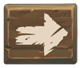
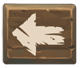
game back buttons

diff --git a/TOB/js/preload.js b/TOB/js/preload.js
@@ -280,6 +280,25 @@ BasicGame.Preload.prototype = {
                 }, 150);
 
             });
+
+            EZGUI.components.backbutton1.on('mousedown', function (event, me) {
+                //console.log('mousedown ', me);
+                var ow = me.width;
+                var oh = me.height;
+                me.animateSizeTo(ow * 1.1, oh * 1.1, 100, EZGUI.Easing.Back.Out, function () {
+                    me.animateSizeTo(ow, oh, 100);
+                });
+            });
+
+            EZGUI.components.backbutton1.on('click', function (event, me) {
+
+                //wait for animation to finish
+                setTimeout(function () {
+                    BasicGame.ui_level_screen.visible = false;
+                    this.game.state.start("GameTitle");
+                }, 100);
+
+            });
         }
 
         BasicGame.reloadStageScreenUI = function () {
@@ -289,11 +308,16 @@ BasicGame.Preload.prototype = {
             levelSelectScreenJSON.width = BasicGame.globalGameWidth;
             levelSelectScreenJSON.height = BasicGame.globalGameHeight;
             levelSelectScreenJSON.children[0].width = BasicGame.globalGameWidth;
-            levelSelectScreenJSON.children[0].height = BasicGame.globalGameHeight;
+            levelSelectScreenJSON.children[0].height = BasicGame.globalGameHeight * 0.2;
+            levelSelectScreenJSON.children[0].font.size = 34 * window.devicePixelRatio + 'px';
+            levelSelectScreenJSON.children[0].children[2].width = BasicGame.globalGameWidth * 0.1;
+            levelSelectScreenJSON.children[0].children[2].height = BasicGame.globalGameHeight * 0.16;
+            levelSelectScreenJSON.children[1].width = BasicGame.globalGameWidth;
+            levelSelectScreenJSON.children[1].height = BasicGame.globalGameHeight * 0.84;
 
-            for (var i = 0; i < levelSelectScreenJSON.children[0].children.length; i++){
+            for (var i = 0; i < levelSelectScreenJSON.children[1].children.length; i++){
 
-                var level = levelSelectScreenJSON.children[0].children[i];
+                var level = levelSelectScreenJSON.children[1].children[i];
                 
                 level.width = 120 * window.devicePixelRatio;
                 level.height = 120 * window.devicePixelRatio;

diff --git a/TOB/js/tob_UI_script.js b/TOB/js/tob_UI_script.js
@@ -8,8 +8,28 @@ var levelSelectScreenJSON = {
 	height: 200,
 
 
-	layout: [1, 1],
+	layout: [1, 6],
 	children: [
+	{
+		    text: 'StageScreen',
+		    font: {
+		        size: '42px',
+		        family: 'Skranji',
+		        color: '#fff'
+		    },
+		    component: 'Header',
+		    
+		    position: 'center',
+		  
+		    width: 400,
+		    height: 80,
+		    layout: [3, 1],
+		    children: [
+				null,
+				null,
+				{ id: 'backbutton1', component: 'Button', position: 'right', width: 160, height: 120, skin: 'backBtn' },
+		    ]
+	},
 	{
 		id: 'levelsList',
 		component: 'List',

diff --git a/TOB/index.html b/TOB/index.html
@@ -95,6 +95,11 @@
                 font: { size: level_box_font_size, family: 'Skranji', color: 'gray' },
                 anchor: {x:0.5, y:0.4},
             },
+
+            backBtn : {
+            	image: 'btn_next',                
+                anchor: {x:0.5, y:0.5},
+            },
         };
 		/* END OF UI ------------------------------------------------------------------------------------------ */
 				

diff --git a/TOB/js/main.js b/TOB/js/main.js
@@ -513,6 +513,7 @@ blocks - event handlers
 		var restartButton = me.game.add.button(me.game.world.width * 0.5,
   			me.game.world.height * 0.68, "btn_next", me.gotoNextStage, me);
   		restartButton.anchor.setTo(0.5, 0.5);
+		restartButton.scale.x *= -1; // flip horizontally
   		restartButton.onInputDown.add(me.onDown, this);
 		restartButton.onInputUp.add(me.onUp, this);
 

diff --git a/map/index.html b/map/index.html
@@ -59,6 +59,7 @@
 		<div class="ui gray large three item inverted menu">
 		  <a class="item" href="/map/">Maps</a>
 		  <a class="item" href="/map/edit">MapEditor</a>
+		  <a class="item" ng-click="gotoGame()">BackToGame</a>
 		</div>
 
 		<div>

diff --git a/map/js/controllers/MainCtrl.js b/map/js/controllers/MainCtrl.js
@@ -106,5 +106,7 @@ angular.module('MainCtrl', []).controller('MainController', function($scope) {
 	}
 	$scope.loadJumpScaleFromLocalStorage();
 
-
+	$scope.gotoGame = function(){
+		window.location.href = $scope.href_game;
+	};
 });
